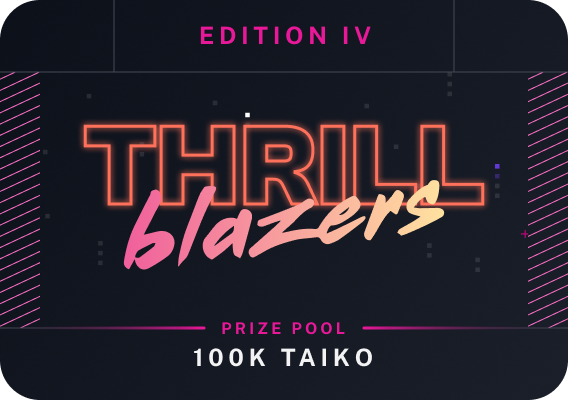
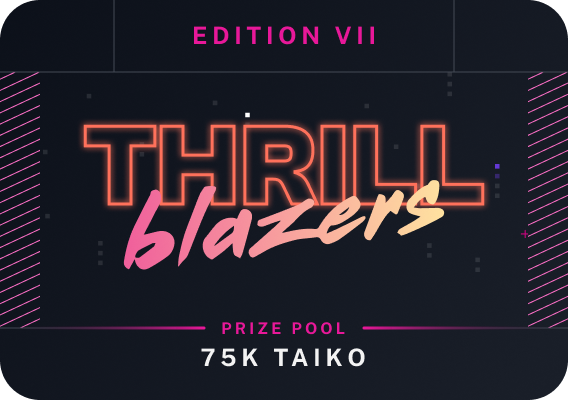
update assets

Changed region(s): [[0.3292, 0.87, 0.6585, 0.93], [0.3292, 0.06, 0.6585, 0.12]]

diff --git a/src/lib/shared/components/FeaturedCampaigns/cards.ts b/src/lib/shared/components/FeaturedCampaigns/cards.ts
@@ -2,48 +2,33 @@ import type { CampaignCardType } from './types';
 
 export const cards: CampaignCardType[] = [
   {
-    title: 'New look, who ‘dis?',
-    text: 'New badge recruitment is live! Join the Devs and recruit fresh faces to your faction today!',
+    title: 'Liquidity Royale Season 5',
+    text: 'Compete, conquer and earn! 700k TAIKO tokens are up for grabs!',
     btn: {
-      text: 'Recruit now',
+      text: 'Earn now',
       external: false,
-      destination: `profile/`,
+      destination: '/leaderboard/liquidity/4',
     },
     images: {
-      sm: '/campaign/cards/sm/newNft.png',
-      md: '/campaign/cards/xl/newNft.png',
-      lg: '/campaign/cards/xl/newNft.png',
-      xl: '/campaign/cards/xl/newNft.png',
+      sm: '/campaign/cards/sm/lr-s5.png',
+      md: '/campaign/cards/xl/lr-s5.png',
+      lg: '/campaign/cards/xl/lr-s5.png',
+      xl: '/campaign/cards/xl/lr-s5.png',
     },
   },
   {
-    title: 'Blaze new trails with Thrillblazer S4',
+    title: 'Blaze new trails with Thrillblazer Edition 7',
     text: 'Blaze new trails, fuel Taiko’s momentum, and seize your chance for legendary rewards.',
     btn: {
       text: 'Earn now',
       external: false,
-      destination: '/leaderboard/thrillblazer/4',
+      destination: '/leaderboard/thrillblazer/7',
     },
     images: {
       sm: '/campaign/cards/sm/thrillblazer.png',
       md: '/campaign/cards/xl/thrillblazer.png',
       lg: '/campaign/cards/xl/thrillblazer.png',
       xl: '/campaign/cards/xl/thrillblazer.png',
-    },
-  },
-  {
-    title: 'Liquidity Royale Season 4',
-    text: 'Compete, conquer and earn! 1 Million TAIKO tokens are up for grabs!',
-    btn: {
-      text: 'Earn now',
-      external: false,
-      destination: '/leaderboard/liquidity/3',
-    },
-    images: {
-      sm: '/campaign/cards/sm/liquidity-royale.png',
-      md: '/campaign/cards/xl/liquidity-royale.png',
-      lg: '/campaign/cards/xl/liquidity-royale.png',
-      xl: '/campaign/cards/xl/liquidity-royale.png',
     },
   },
 ];

diff --git a/src/lib/domains/profile/components/NewsCard/newsEntries.ts b/src/lib/domains/profile/components/NewsCard/newsEntries.ts
@@ -1,37 +1,27 @@
-import { zeroAddress } from 'viem';
-
 import type { NewsCardContent } from '$lib/domains/profile/types/NewsCardContent';
-import getConnectedAddress from '$shared/utils/getConnectedAddress';
 
-const profilePath = (slug: string) => {
-  const address = getConnectedAddress();
-  return address && address !== zeroAddress ? `${address}${slug}` : '';
-};
+// const profilePath = (slug: string) => {
+//   const address = getConnectedAddress();
+//   return address && address !== zeroAddress ? `${address}${slug}` : '';
+// };
 
 export const newsEntries: NewsCardContent[] = [
   {
     featured: true,
-    title: 'Season 4 is here!',
+    title: 'Season 5 is here!',
     subtitle: 'Join now!',
     text: 'Blaze new trails, fuel Taiko’s momentum, and seize your chance for legendary rewards.',
     imgSrc: '/news/flame.svg',
     cta: {
-      href: 'https://taiko.mirror.xyz/6vLNVZ3pgFFenboNt1dD2gwGWwYBnweTu85V30B_CGc',
+      href: 'https://taiko.mirror.xyz/Bpu-YUgJXSoZRD-rGfsFVr-cb7QyI-6pn2GfJCuKNFc',
       external: true,
     },
   },
   {
-    title: 'Liquidity Royale Season 4',
+    title: 'Liquidity Royale Season 5',
     subtitle: 'Supercharge your liquidity and get rewarded for it',
     cta: {
-      href: '/leaderboard/liquidity/3',
-    },
-  },
-  {
-    title: 'Refreshed Badge recruitment',
-    subtitle: 'Recruit your members to your cause',
-    cta: {
-      href: profilePath('#badge-recruitment'),
+      href: '/leaderboard/liquidity/4',
     },
   },
 ];

diff --git a/src/lib/domains/profile/components/SeasonDetails.svelte b/src/lib/domains/profile/components/SeasonDetails.svelte
@@ -1,6 +1,4 @@
 <script lang="ts">
-  import { Icon } from '$shared/components/Icon';
-  import { Tooltip } from '$shared/components/Tooltip';
   import { activeSeason } from '$shared/stores/activeSeason';
   import { classNames } from '$shared/utils/classNames';
 
@@ -36,6 +34,11 @@
       start_date: 'March 17th 2025',
       end_date: 'June 16th 2025',
     },
+    {
+      id: 5,
+      start_date: 'June 16th 2025',
+      end_date: 'Sep 15th 2025',
+    },
   ];
 
   const getSeasonDetails = () => {
@@ -43,23 +46,12 @@
     const currentSeason = seasons.find((season) => season.id === $activeSeason);
     return currentSeason ? `${currentSeason.start_date} - ${currentSeason.end_date}` : 'N/A';
   };
-  const tooltipContentClasses = classNames('bg-white', 'text-black');
   $: $activeSeason && getSeasonDetails();
 </script>
 
 <div class={seasonSelectorWrapper}>
   <div class="font-bold f-row gap-1">
     <span>Season {$activeSeason}</span>
-
-    <Tooltip position="bottom">
-      <div class={tooltipContentClasses}>
-        <h2 class="text-black">Season selector soon</h2>
-        <div class="body-regular text-black">
-          We are working on a way to let you view your previous season's statistics. Stay tuned!
-        </div>
-      </div>
-    </Tooltip>
-    <Icon type="chevron-down" size={14} class="min-w-[20px] self-center" />
   </div>
   <span class="text-secondary-content text-sm">{getSeasonDetails()}</span>
 </div>

diff --git a/src/lib/domains/splashpage/components/index.svelte b/src/lib/domains/splashpage/components/index.svelte
@@ -1,12 +1,10 @@
 <script lang="ts">
   import { EcosystemSection } from '$lib/domains/ecosystem/components/index';
   import BannerCarousel from '$lib/domains/splashpage/components/Banner/BannerCarousel.svelte';
-  import S4StartBanner from '$lib/domains/splashpage/components/Banner/S4StartBanner.svelte';
   import type { Slide } from '$lib/domains/splashpage/components/Banner/types';
   import FeaturedCampaigns from '$shared/components/FeaturedCampaigns/FeaturedCampaigns.svelte';
   import { classNames } from '$shared/utils/classNames';
 
-  import S3ClaimBanner from './Banner/S3ClaimBanner.svelte';
   import S5StartBanner from './Banner/S5StartBanner.svelte';
   import Factions from './Factions/Factions.svelte';
   import { TrailblazerGuide } from './Guide';
@@ -31,11 +29,7 @@
 
   const slides: Slide[] = [
     {
-      component: S3ClaimBanner,
-      url: 'profile',
-    },
-    {
-      component: S4StartBanner,
+      component: S5StartBanner,
     },
   ];
 </script>
@@ -44,11 +38,8 @@
   <HeroSection />
   <div class={separator40pxClasses} />
 
-  <S5StartBanner />
-
-  <div class={separator40pxClasses} />
-
   <FeaturedCampaigns title="Featured campaigns" />
+  <div class={separator40pxClasses} />
 
   <BannerCarousel interval={5000} transitionDuration={700} transitionDistance={200} {slides} withDots />
 
